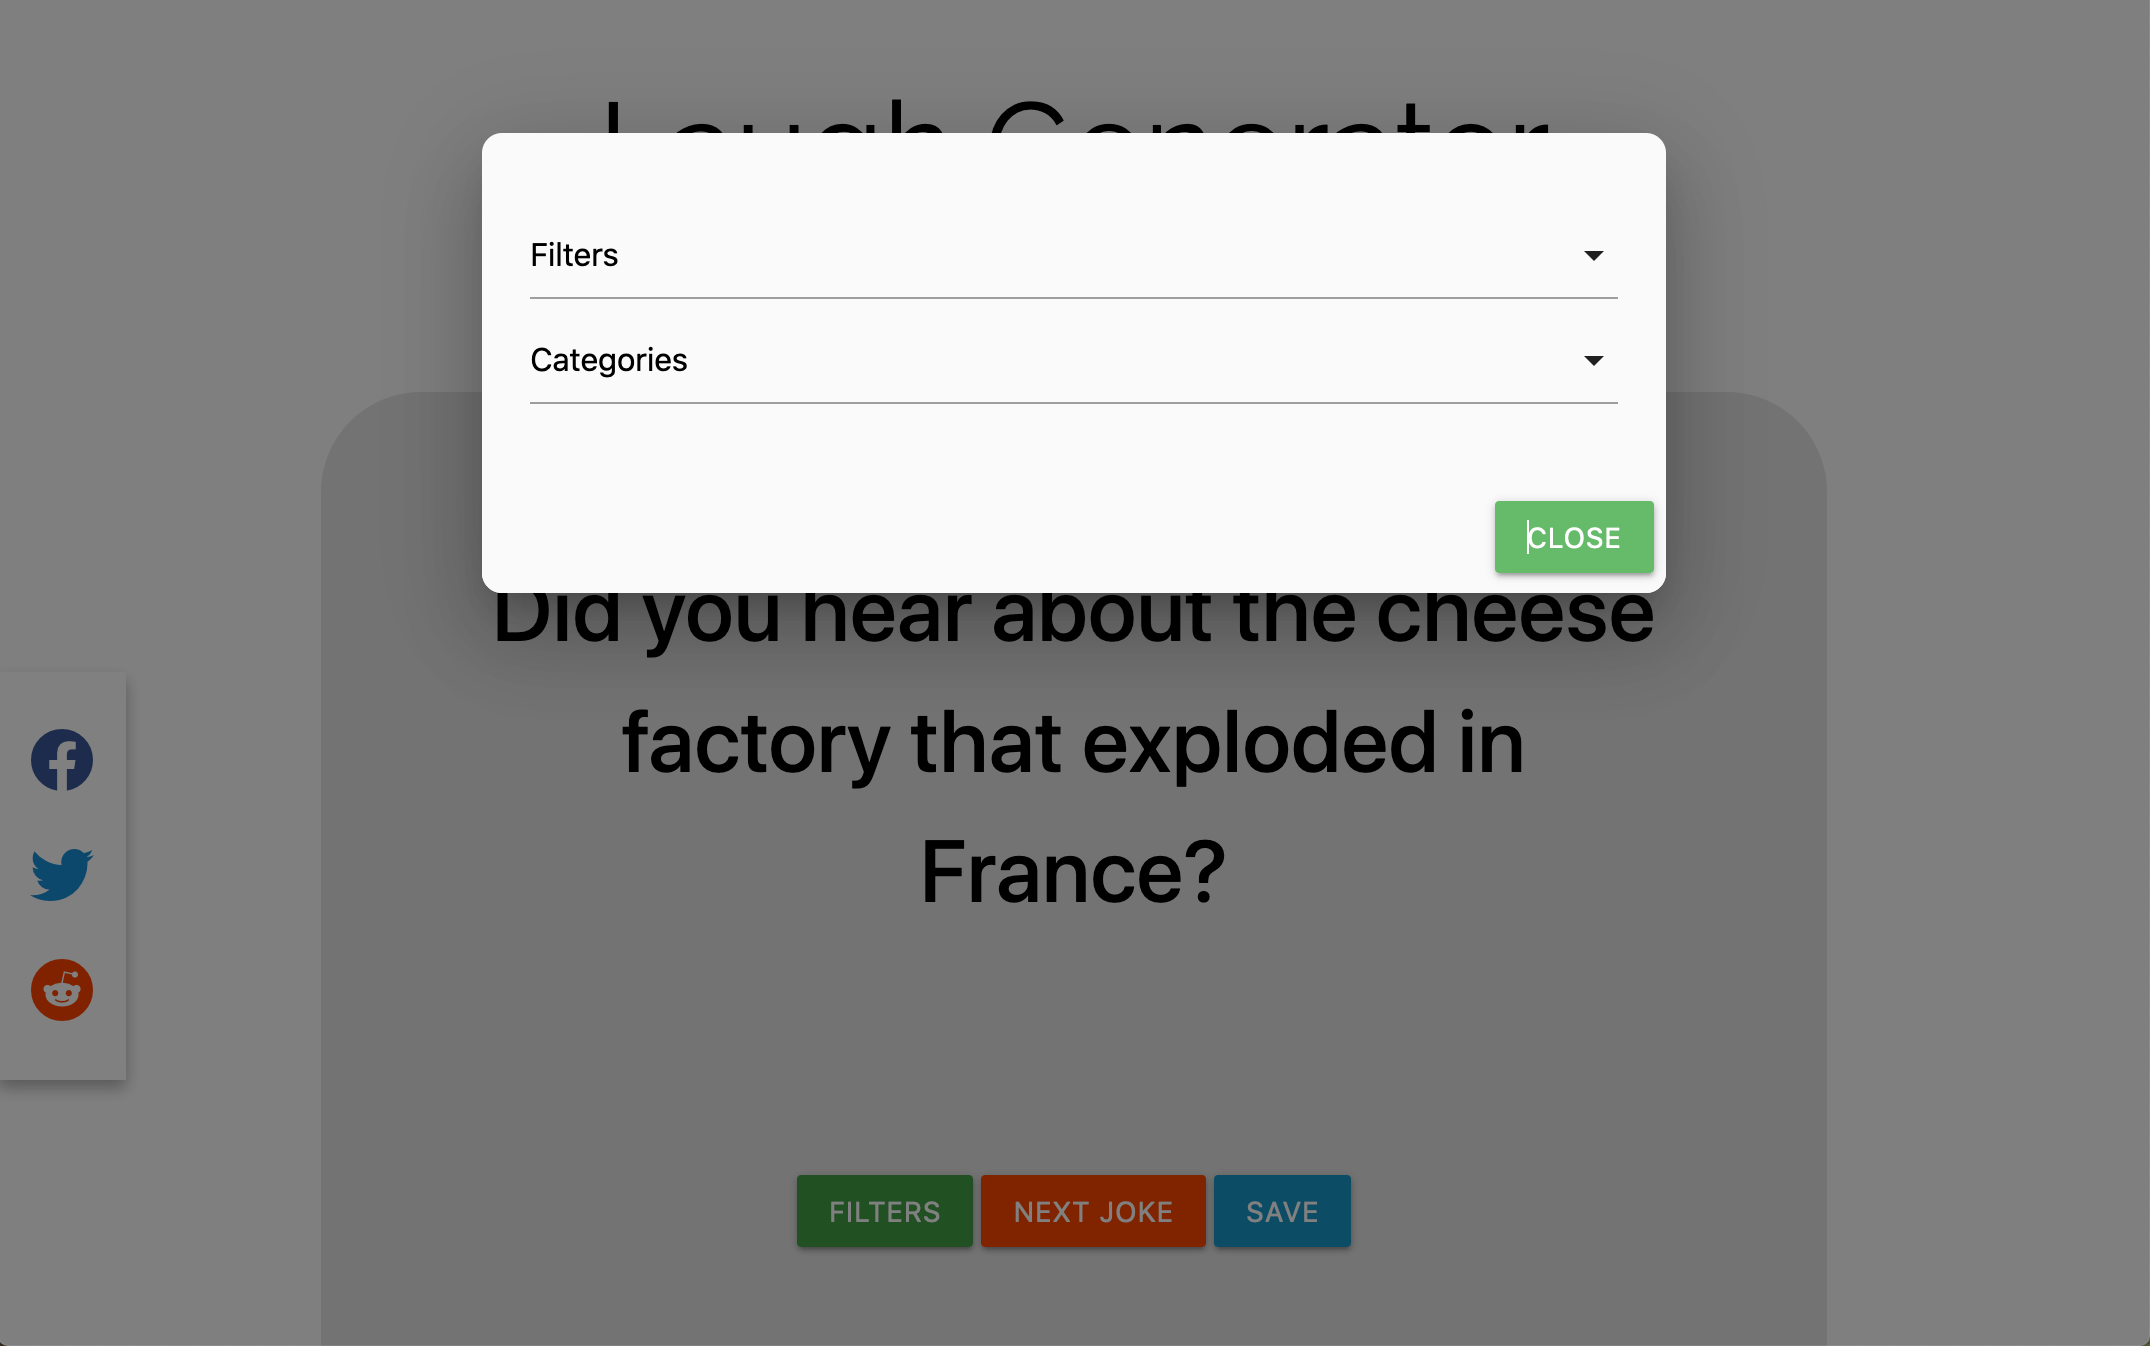
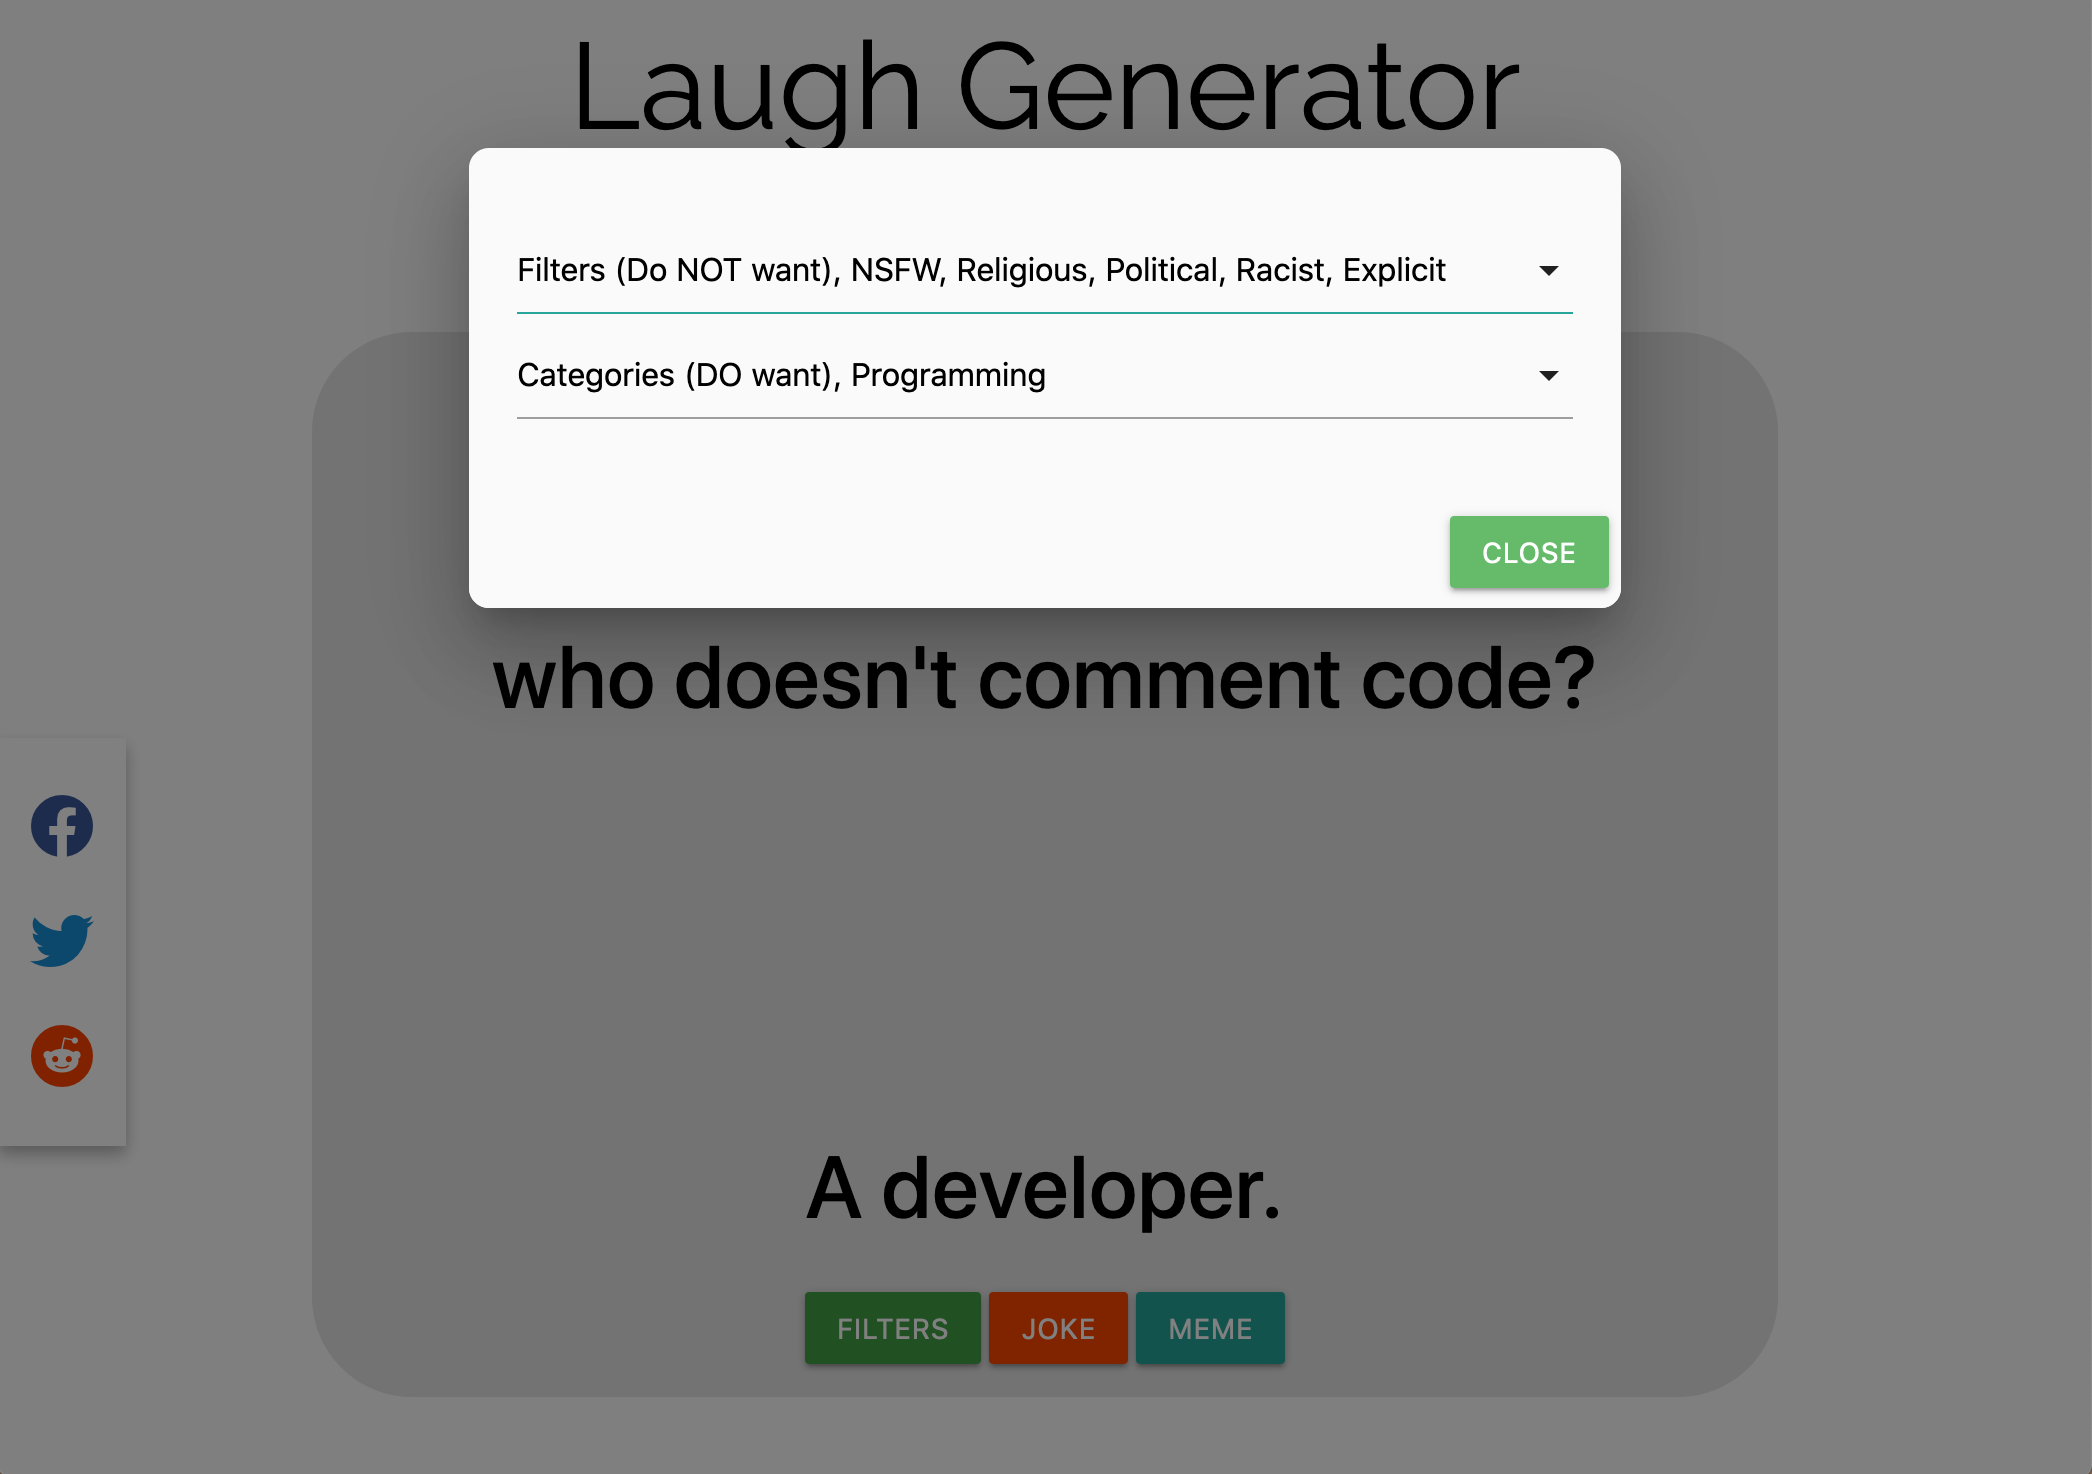
Finalized Code, Implemented asynch call, updated readme should be final

diff --git a/assets/js/script.js b/assets/js/script.js
@@ -13,35 +13,29 @@ $(document).ready(function() {
 
 document.getElementById("memeButton").addEventListener("click", function(event) {
     event.preventDefault();
-    var requestMemeUrl = "https://api.imgflip.com/get_memes"
 
-
-    function getRandomMeme() {
-        fetch(requestMemeUrl).then(function(response) {
-            if(!response.ok) {
-                document.getElementById("joke1").innerText="There was an error retreiving the meme."
-                document.getElementById("joke2").innerHTML=""
-            } 
-            return response.json();
-        }).then(function(data) {
-            console.log(data);
-            /* This part displays the Meme */
-
-            function generateRandomNumber(maxValue) {
-                var randomNumber=Math.random();
-             
-                var result=Math.floor(randomNumber * maxValue);
-                return result;
-
-            
-            }
-            return;
-        });
+    let fetchDataFromApi = async function() {
+        let response = await fetch('https://meme-api.herokuapp.com/gimme');
+        let results = await response.json();
+        if(results.nsfw){
+            console.log("Results are nsfw")
+            return fetchDataFromApi('https://meme-api.herokuapp.com/gimme'); 
+        }else{
+            return results; 
+        }
     }
-    getRandomMeme();
+    fetchDataFromApi().then((data) => {
+        console.log(data)
+        var memeLink=data.preview[2];
+        document.getElementById("joke1").innerHTML=`<img src="${memeLink}"/>`;
+        document.getElementById("joke2").innerHTML="";
+        localStorage.setItem("setup", "");
+        localStorage.setItem("delivery", "");
+        localStorage.setItem("joke", "");
+        localStorage.setItem("memePic", memeLink);
     })
 
-    
+})
 /* Click the button to display the joke */
 document.getElementById("jokeButton").addEventListener("click", function(event) {
     event.preventDefault();
@@ -69,9 +63,6 @@ document.getElementById("jokeButton").addEventListener("click", function(event) 
         // var requestUrl="https://v2.jokeapi.dev/joke/Any?blacklistFlags=nsfw,religious,political,racist,sexist,explicit"
 
 
-
-
-
     function getRandomJoke() {
         fetch(requestUrl).then(function(response) {
             if(!response.ok) {
@@ -89,6 +80,8 @@ document.getElementById("jokeButton").addEventListener("click", function(event) 
                 document.getElementById("joke2").innerText=jokeDelivery;
                 localStorage.setItem("setup", jokeSetup);
                 localStorage.setItem("delivery", jokeDelivery);
+                localStorage.setItem("joke", "");
+                localStorage.setItem("memePic", "");
             } else {
                 var oneLineJoke=data.joke
                 document.getElementById("joke1").innerText=oneLineJoke;
@@ -97,6 +90,7 @@ document.getElementById("jokeButton").addEventListener("click", function(event) 
                 localStorage.setItem("setup", "");
                 localStorage.setItem("delivery", "");
                 localStorage.setItem("joke", oneLineJoke);
+                localStorage.setItem("memePic", "");
             }
             return;
         });
@@ -111,12 +105,16 @@ document.getElementById("jokeButton").addEventListener("click", function(event) 
         let lineOne = localStorage.getItem("setup");
         let lineTwo = localStorage.getItem("delivery");
         let oneLiner = localStorage.getItem("joke");
+        let meme = localStorage.getItem("memePic");
 
         if (lineOne && lineTwo) {
             document.getElementById("joke1").textContent = lineOne;
             document.getElementById("joke2").textContent = lineTwo;
-        } else {
+        } else if (oneLiner){
             document.getElementById("joke1").innerText = oneLiner;
+            document.getElementById("joke2").innerHTML = "";
+        } else {
+            document.getElementById("joke1").innerHTML = `<img src="${meme}"/>`;
             document.getElementById("joke2").innerHTML = "";
         }
 
@@ -125,11 +123,13 @@ document.getElementById("jokeButton").addEventListener("click", function(event) 
 
    
 function share() {
-    var jokeOutput = document.getElementById("joke1").textContent;
-    var jokeOutput2 = document.getElementById("joke2").textContent;
+    var jokeOutput = localStorage.getItem("setup");
+    var jokeOutput2 = localStorage.getItem("delivery");
+    var jokeOutput3 = localStorage.getItem("joke");
+    var jokeOutput4 = localStorage.getItem("memePic");
     //this grabs the URL of the current webpage you're on 
     let postURL = encodeURI(document.location.href);
-    let postTitle = encodeURI(jokeOutput+" "+jokeOutput2);
+    let postTitle = encodeURI(jokeOutput+" "+jokeOutput2 + jokeOutput3 + jokeOutput4);
 
     //console.log(postTitle); 
 
@@ -142,11 +142,8 @@ function share() {
 -----------------------------social share links-------------------------------
 Reddit:
 https://reddit.com/submit?url=[post-url]&title=[post-title]
-
 Twitter:
 https://twitter.com/share?url=[post-url]&text=[post-title]&via=[via]&hashtags=[hashtags]
-
 Facebook:
 https://www.facebook.com/sharer.php?u=[post-url]
-
 */

diff --git a/index.html b/index.html
@@ -29,7 +29,6 @@
                 <!-- Page Content goes here -->
                 <p id="joke1"></p>
                 <p id="joke2"></p>
-                <img id="meme"></img>
             </div>
         </main>
         <!-- Modal Trigger -->
@@ -38,9 +37,9 @@
                 green darken-1 modal-trigger" href="#demo-modal">
                 Filters
             </a>
-            <button class="waves-effect waves-light btn" id="jokeButton">Next Joke</button>
-            <button class="waves-effect waves-light btn" id="memeButton">Next Meme</button>
-            <button class="waves-effect waves-light btn" id="saveButton">Save</button>
+            <button class="waves-effect waves-light btn" id="jokeButton">Joke</button>
+            <button class="waves-effect waves-light btn" id="memeButton">Meme</button>
+<!--           <button class="waves-effect waves-light btn" id="saveButton">Save</button> -->
         </div>
 
         <!-- Modal Structure -->
@@ -48,7 +47,7 @@
             <div class="modal-content">
                 <div class="input-field col s12" id="select">
                     <select id="filters" multiple>
-                        <option value="" disabled selected>Filters</option>
+                        <option value="" disabled selected>Filters (Do NOT want)</option>
                         <option value="nsfw">NSFW</option>
                         <option value="religious">Religious</option>
                         <option value="political">Political</option>
@@ -59,7 +58,7 @@
                     </select>
                     <div>
                         <select id="categories" multiple>
-                        <option value="" disabled selected>Categories</option>
+                        <option value="" disabled selected>Categories (DO want)</option>
                         <option value="Programming">Programming</option>
                         <option value="Misc">Misc</option>
                         <option value="Dark">Dark</option>

diff --git a/assets/css/styles.css b/assets/css/styles.css
@@ -47,11 +47,11 @@
     #jokeButton {
         background-color: rgb(255, 72, 0);
     }
-    
+    /*
     #saveButton {
         background-color: rgb(25, 152, 202);
     }
-    
+    */
     .modal,
     .modal-content {
         overflow: visible;

diff --git a/README.md b/README.md
@@ -1,14 +1,16 @@
 # Laugh Generator
 
-The Laugh Generator was created during the current pandemic because there was not much to laugh about in life. We decided to make a random joke generator that spits out a random joke taken from an open source joke API at the touch of a button. Afterwards, you can share that joke with your friends on Twitter, Reddit and Facebook with the simple touch of another button.
+The Laugh Generator was created during the current pandemic because there was not much to laugh about in life. We decided to make a random joke generator that spits out a random joke taken from an open source joke API at the touch of a button. Afterwards, you can share that joke with your friends on Twitter, Reddit and Facebook with the simple touch of another button. Later, we added the ability for our generator to pull memes off of reddit, and also filter out potentially nsfw memes.
 
-Your most recent joke generated for you is saved to Local Storage, so it will still be there in case you accidentally refresh the page.
+Your most recent joke/meme generated for you is saved to Local Storage, so it will still be there in case you accidentally refresh the page.
 
 The Laugh Generator also includes a list of filters and categories that allow you to customize your user experience with only the jokes you want to see.
 
 
-[The standard Laugh Generator desktop page](./assets/Laugh.png)
-[The Mobile Version of Laugh Generator](./assets/Mobile.png)
+[The standard Laugh Generator desktop page with a joke](./assets/Laugh.png)
+[The standard Laugh Generator desktop page with a meme](./assets/Meme.png)
+[The Mobile Version of Laugh Generator with a joke](./assets/Mobile.png)
+[The Mobile Version of Laugh Generator with a meme](./assets/Mememobile.png)
 
 
 # How to use the Customization Feature:
@@ -40,9 +42,21 @@ Pun: Wordplay. Check this box if you ![WANT] to see puns.
 Spooky: Jokes good for Halloween and other spooky events. Check this box if you ![WANT] to see fun jokes about ghosts, skeletons, and the like.
 Christmas: Jokes good for Christmas. Self-explanatory. Check this box if you ![WANT] to see Christmas themed jokes.
 
-## APIs used:
+# Memes:
+
+Memes work differently from Jokes as they are pulled from another API. NSFW content is automatically filtered out from memes because they are pulled directly from Reddit. The plus side of this is that the memes should be current.
+
+
+# Sharing:
+
+Pressing the Twitter, Reddit, and Facebook buttons shares the jokes and memes to Twitter and Reddit. Unfortunately, due to how facebook works, it only shares a link to the Laugh Generator at the moment.
+
+# APIs used:
 
 [JokeAPI](https://sv443.net/jokeapi/v2/)
+[MemeAPI](https://github.com/D3vd/Meme_Api)
+
+## APIs we WANTED to use, but they never got back to us:
 [Twitter](https://developer.twitter.com/en/docs/twitter-api)
 [Reddit](https://www.reddit.com/dev/api)
 [Facebook](https://developers.facebook.com/docs/apis-and-sdks)
